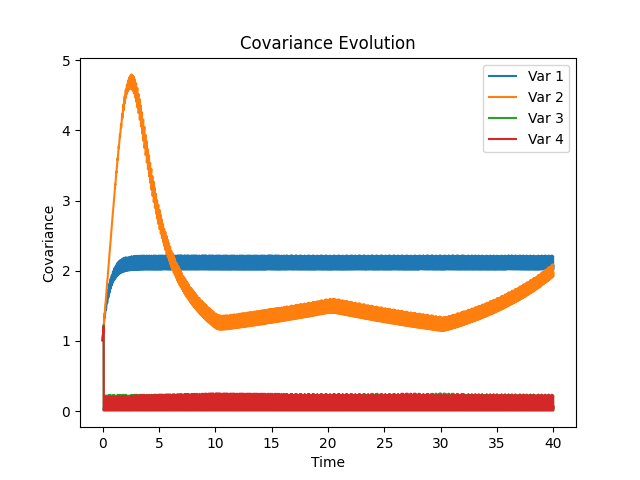
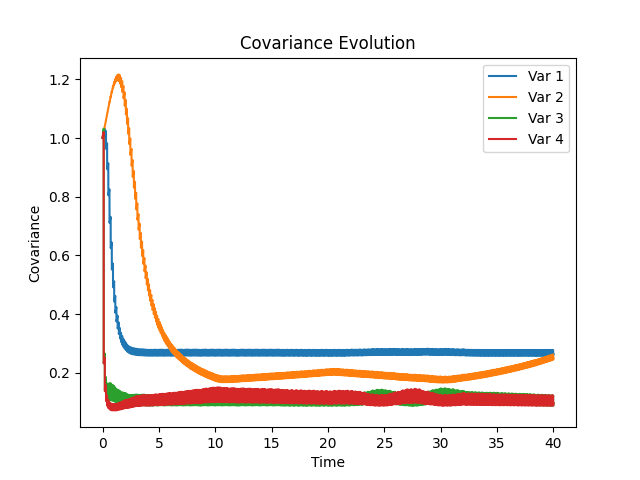
Final

diff --git a/LP4-AutonomousRobots/Assignment 3/assignment3.py b/LP4-AutonomousRobots/Assignment 3/assignment3.py
@@ -62,8 +62,8 @@ def kalman_filter(gnns_dict, time, theta, v, x, y, theta_dot):
     state = np.zeros((len(time), 4))
     cov_history = []
     P = np.eye(4)
-    Q = np.eye(4) * 0.01   
-    R = np.eye(4) * 0.01
+    Q = np.eye(4) * 0.001
+    R = np.eye(4) * 0.3
     H = np.eye(4)
     H[:2, :2] = 0
 
@@ -94,9 +94,10 @@ def main():
     kf_x, kf_y, cov_history = kalman_filter(gnss_dict, time, theta, velocity, x, y, theta_dot)
     
     increments, mse_values = compute_mse(kf_x, kf_y, gt_x, gt_y)
+    print('MSE: ', sum(mse_values))
     plot.plot_mse(increments, mse_values)
     plot.plot_covariance(cov_history, time)
-    plot.plot_motion([x, gnss_x, gt_x, kf_x], [y, gnss_y, gt_y, kf_y], ['odometry', 'gnss', 'ground truth', 'kalman'])
+    plot.plot_motion([x, gnss_x, gt_x, kf_x], [y, gnss_y, gt_y, kf_y], ['Odometry', 'GNSS', 'Ground Truth', 'Kalman'])
 
 
 if __name__== '__main__':
